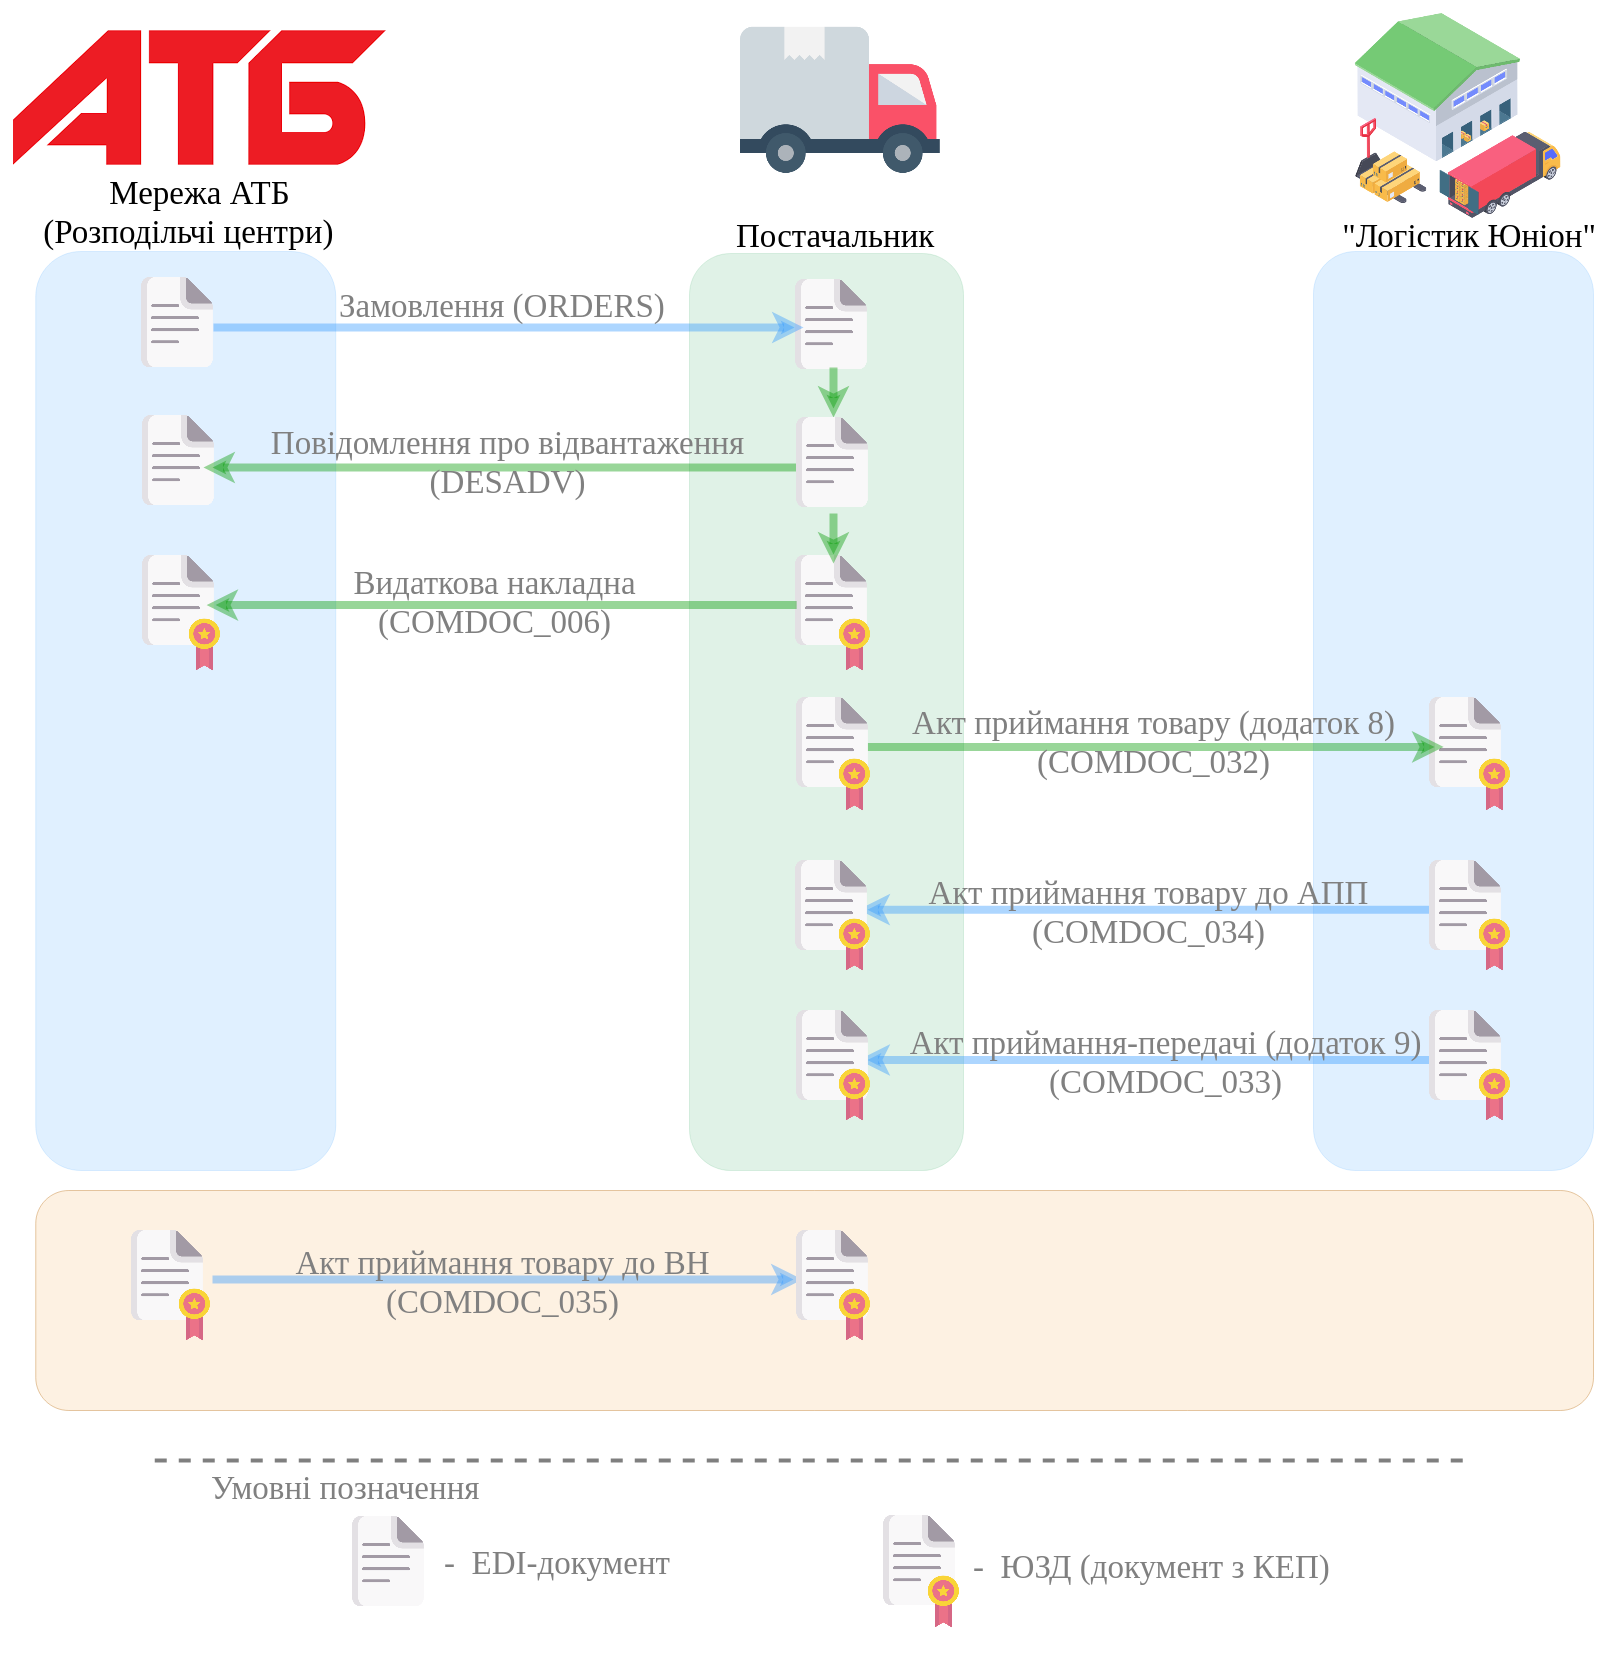
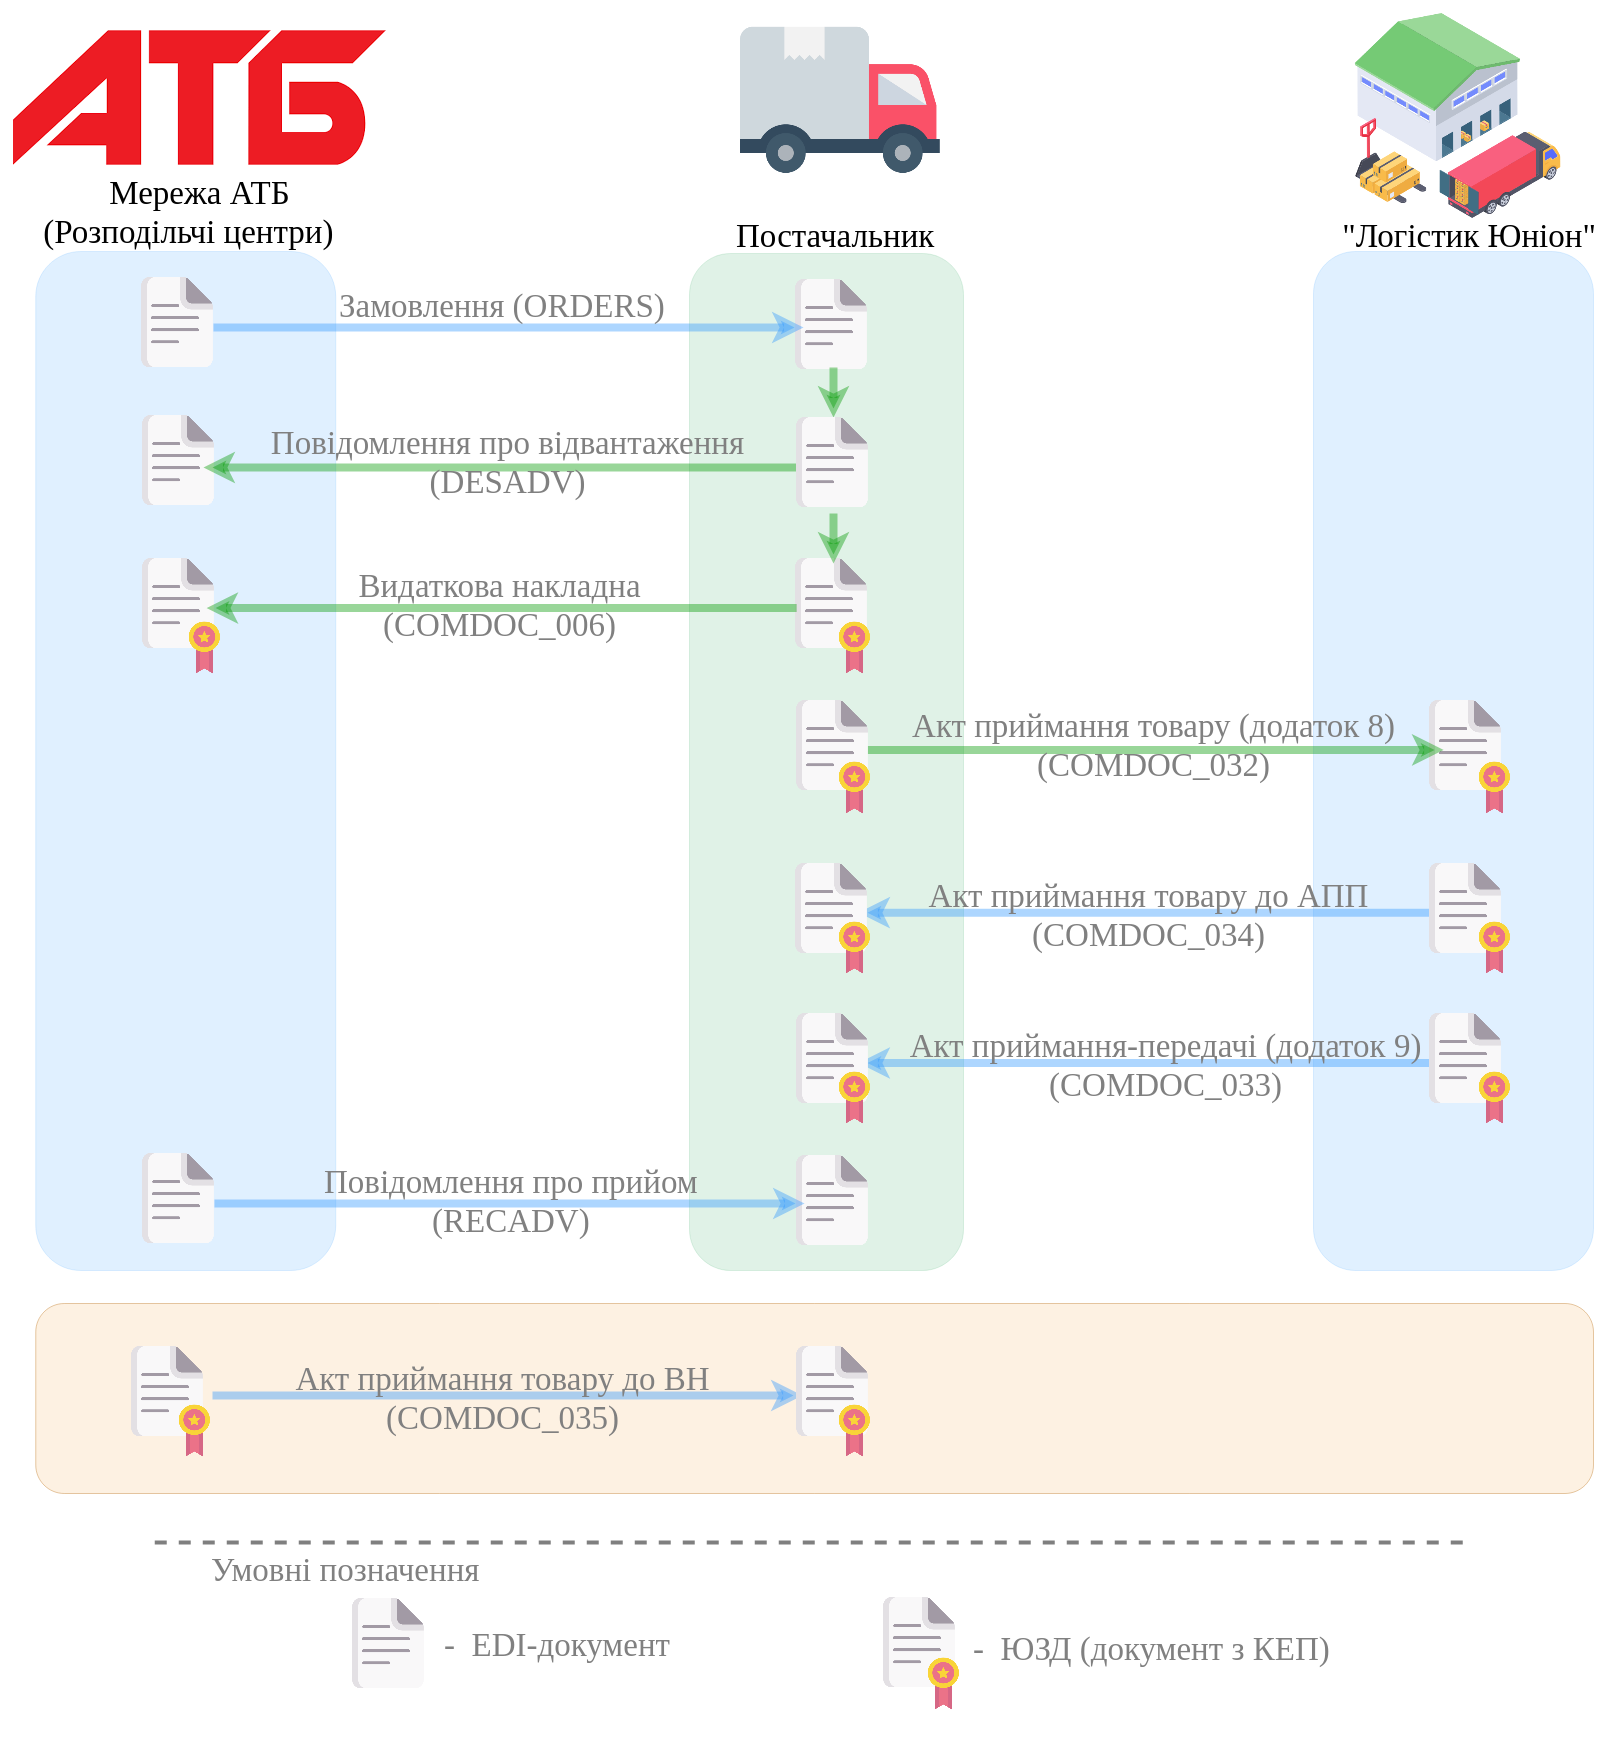
pics

diff --git a/docs/ClientProcesses/ATB/ATB_Instructions/ATB_external_EDI_instruction_post.rst b/docs/ClientProcesses/ATB/ATB_Instructions/ATB_external_EDI_instruction_post.rst
@@ -275,7 +275,7 @@
 
 Мережа "АТБ" може відправити "Повідомлення про прийом" (RECADV). Документ можливо знайти в ланцюжку документів чи скориставшись `пошуком <https://wiki.edin.ua/uk/latest/general_2_0/rabota_s_platformoj_EDIN_2.0.html#doc-search>`__ у папці **"Вхідні"**:
 
-.. image:: pics_ATB_external_EDI_instruction/ATB_external_EDI_instruction_1000000.png
+.. image:: pics_ATB_external_EDI_instruction/ATB_external_EDI_instruction_113.png
    :align: center
 
 "Повідомлення про прийом" (RECADV) використовується для оповіщення постачальників про прийом товарів.
@@ -283,7 +283,7 @@
 .. attention::
    Даний документ при роботі з мережею "АТБ" також відіграє відіграє ключову роль в контролі зобов'язань своєчасної поставки згідно заключеного договору з Постачальниками (передбачені штрафні санкції): 
 
-.. image:: pics_ATB_external_EDI_instruction/ATB_external_EDI_instruction_1000000.png
+.. image:: pics_ATB_external_EDI_instruction/ATB_external_EDI_instruction_114.png
    :align: center
 
 1.4 Отримання і підписання "Акта приймання товару до ВН" (COMDOC_035). Сторона Постачальника
